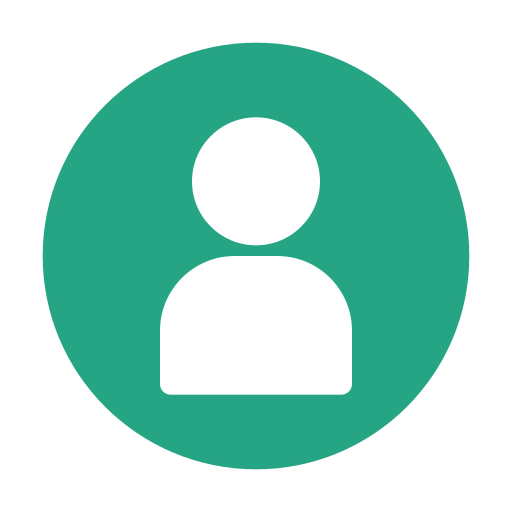
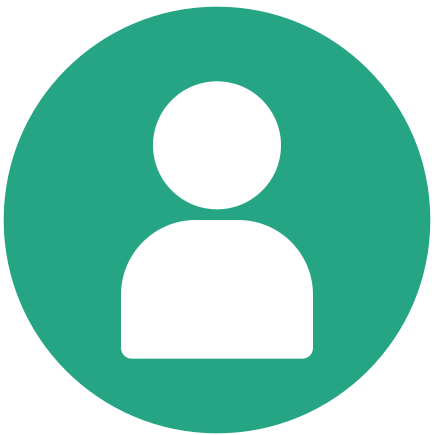
Solved issues #68, #53 and housekeeping
- Resized the generic profile picture and navbar
- Clicking on the logo redirects to home.html when logged in, and index.html when not logged in
- Added flask-login to requirements.txt
- Created first draft of README.md

diff --git a/static/styles.css b/static/styles.css
@@ -8,6 +8,9 @@ body {
 .navbar {
   background-color: #1a1d27;
   border-bottom: 1px solid #2e3250;
+  min-height: 80px;
+  padding-top: 0.75rem;
+  padding-bottom: 0.75rem;
 }
 
 .navbar-brand {
@@ -18,7 +21,7 @@ body {
 
 .navbar-links {
   display: flex;
-  gap: 20px;
+  gap: 30px;
   align-items: center;
 }
 
@@ -26,6 +29,7 @@ body {
   color: #e8eaf0;
   text-decoration: none;
   transition: color 0.3s;
+  font-size: 16px;
 }
 
 .navbar-link:hover, .navbar-link.active {
@@ -44,8 +48,8 @@ body {
 }
 
 .profile-pic {
-  width: 40px;
-  height: 40px;
+  width: 36px;
+  height: 36px;
   border-radius: 50%;
   object-fit: cover;
 }

diff --git a/templates/base.html b/templates/base.html
@@ -13,7 +13,7 @@
 
     <!-- Navbar -->
     <nav class="navbar navbar-dark px-4">
-        <span class="navbar-brand">FitScore</span>
+        <a href="{{ url_for('home') }}" class="navbar-brand">FitScore</a>
         <div class="navbar-links">
             <a href="{{ url_for('home') }}"
                class="navbar-link {% if request.endpoint == 'home' %}active{% endif %}">Home</a>

diff --git a/templates/index.html b/templates/index.html
@@ -12,7 +12,7 @@
 
   <!-- Navbar -->
   <nav class="navbar navbar-dark px-4">
-    <span class="navbar-brand">FitScore</span>
+    <a class="navbar-brand" href="#">FitScore</a>
     <a href="{{ url_for('login') }}" class="btn btn-primary">Log In</a>
   </nav>
 

diff --git a/README.md b/README.md
@@ -1,0 +1,121 @@
+# Fitness Tracker Web Application
+
+A group project developed for **CITS3403 Agile Web Development** at the University of Western Australia.
+
+# Group Members
+The following application is developed by the following students:
+
+| Student ID | Name | GitHub Username |
+|---|---|---|
+| 24215157 | Lukas Rohwer | [lukasmrohwer](https://github.com/lukasmrohwer) |
+| 22708177 | Tom Nylund | [nylzy](https://github.com/nylzy) |
+| 24220855 | Eric Townsend | [yamato1327](https://github.com/yamato1327) |
+| 24012961 | Kenn Lukman | [kenserous](https://github.com/kenserous) |
+
+# Description
+
+This web application is a **personal fitness tracking platform** that allows users to log their exercise activity, track performance over time, and compare results with friends on a leaderboard.
+
+# Purpose
+
+The application is designed to motivate users to stay active by giving them a centralised place to record workouts, view their progress, and engage socially with friends. By standardising scores across different exercise types, users can be ranked fairly on a shared leaderboard regardless of whether they run, lift, or swim.
+
+# Design
+
+The application is built using:
+
+- **Python Flask:** backend web framework handling routing, authentication, and database interaction
+- **SQLAlchemy + Flask-Migrate:** ORM and database migration management usingSQLite
+- **HTML + Bootstrap CSS:** frontend web templates
+- **JavaScript / jQuery (AJAX):** dynamic interactions without full page reloads
+- **Flask-Login:** session-based user authentication
+
+The database consists of four core models:
+
+| Model | Description |
+|---|---|
+| `User` | Stores account credentials and profile information |
+| `Exercise` | Catalogue of exercises with statistical benchmarks (mean & std dev) |
+| `Log` | Records of individual exercise sessions per user, including a standardised z-score |
+| `Friendship` | Tracks connections between users for social features |
+
+## Key Pages
+
+| Route | Description |
+|---|---|
+| `/` | Landing / index page |
+| `/login` | User login |
+| `/register` | New account registration |
+| `/home` | User dashboard (login required) |
+| `/log` | Log a new exercise session (login required) |
+| `/leaderboard` | View ranked leaderboard (login required) |
+| `/social` | Friend activity and social features (login required) |
+| `/profile` | User profile page (login required) |
+
+# Launching the Application
+
+## Prerequisites
+
+- Python 3.8 or higher
+- `pip` package manager
+
+## Steps
+
+1. **Clone the repository**
+
+   ```bash
+   git clone https://github.com/nylzy/agile-group-proj.git
+   cd agile-group-proj
+   ```
+
+2. **Create and activate a virtual environment** (recommended)
+
+   ```bash
+   # macOS / Linux
+   python3 -m venv venv
+   source venv/bin/activate
+
+   # Windows
+   python -m venv venv
+   venv\Scripts\activate
+   ```
+
+3. **Install dependencies**
+
+   ```bash
+   pip install -r requirements.txt
+   ```
+
+4. **Set up the database**
+
+   If this is your first time running the app, initialise and apply the database migrations:
+
+   ```bash
+   flask db upgrade
+   ```
+
+   > If a migration folder doesn't exist yet, run `flask db init` first, then `flask db migrate -m "init"`, then `flask db upgrade`.
+
+5. **Run the application**
+
+   ```bash
+   python app.py
+   ```
+
+6. **Open in your browser**
+
+   Navigate to [http://localhost:5000](http://localhost:5000)
+
+# Project Structure
+
+```
+agile-group-proj/
+├── app.py              # Flask application entry point and route definitions
+├── models.py           # SQLAlchemy database models
+├── config.py           # Application configuration
+├── requirements.txt    # Python dependencies
+├── migrations/         # Flask-Migrate database migration files
+├── static/             # Static assets (CSS, JS, images)
+├── templates/          # Jinja2 HTML templates
+└── demo_concept/       # Early design/concept files
+```
